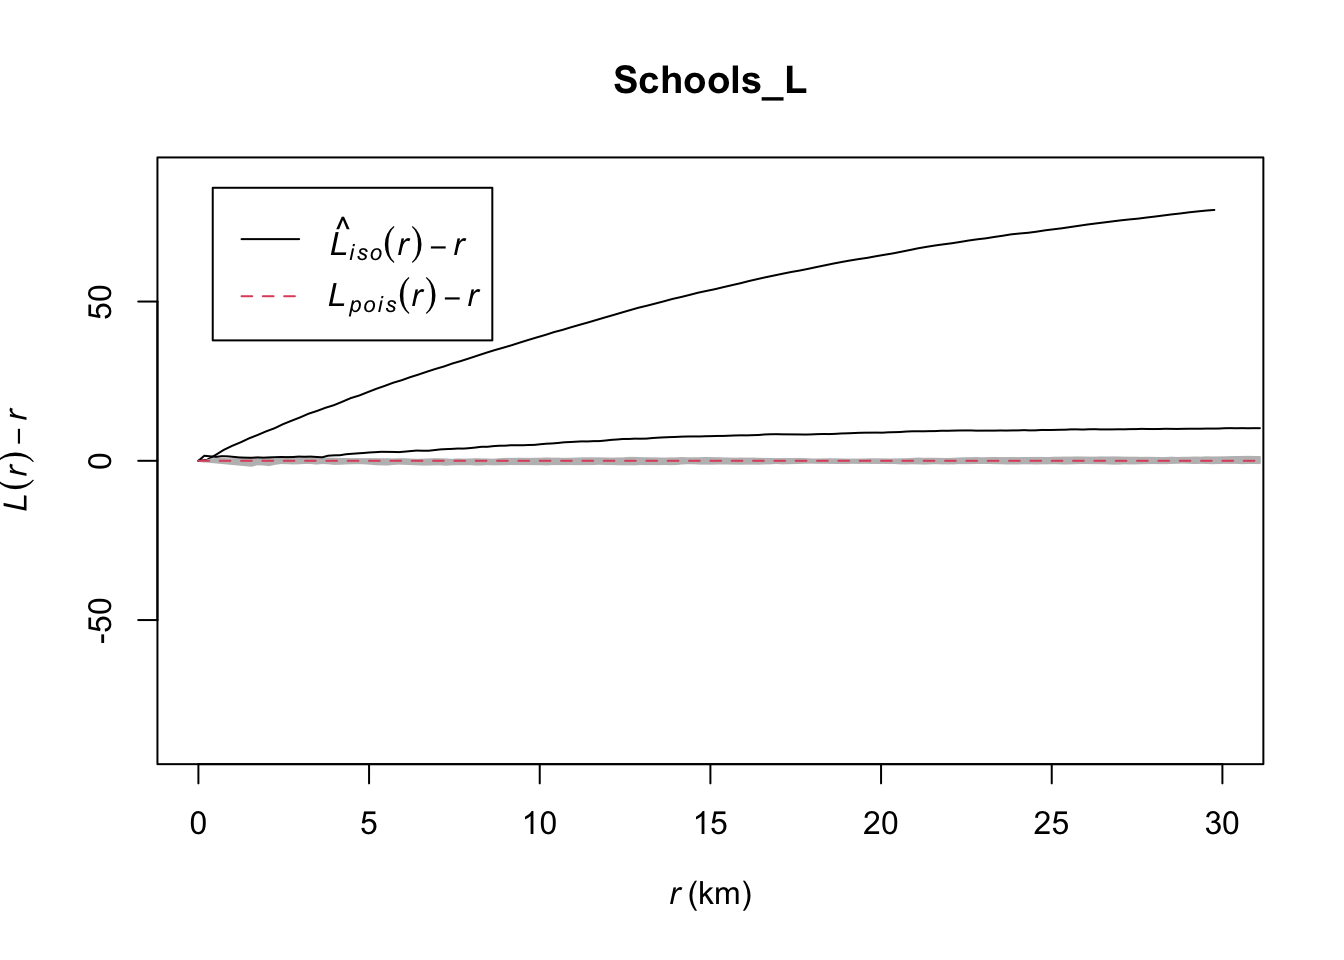
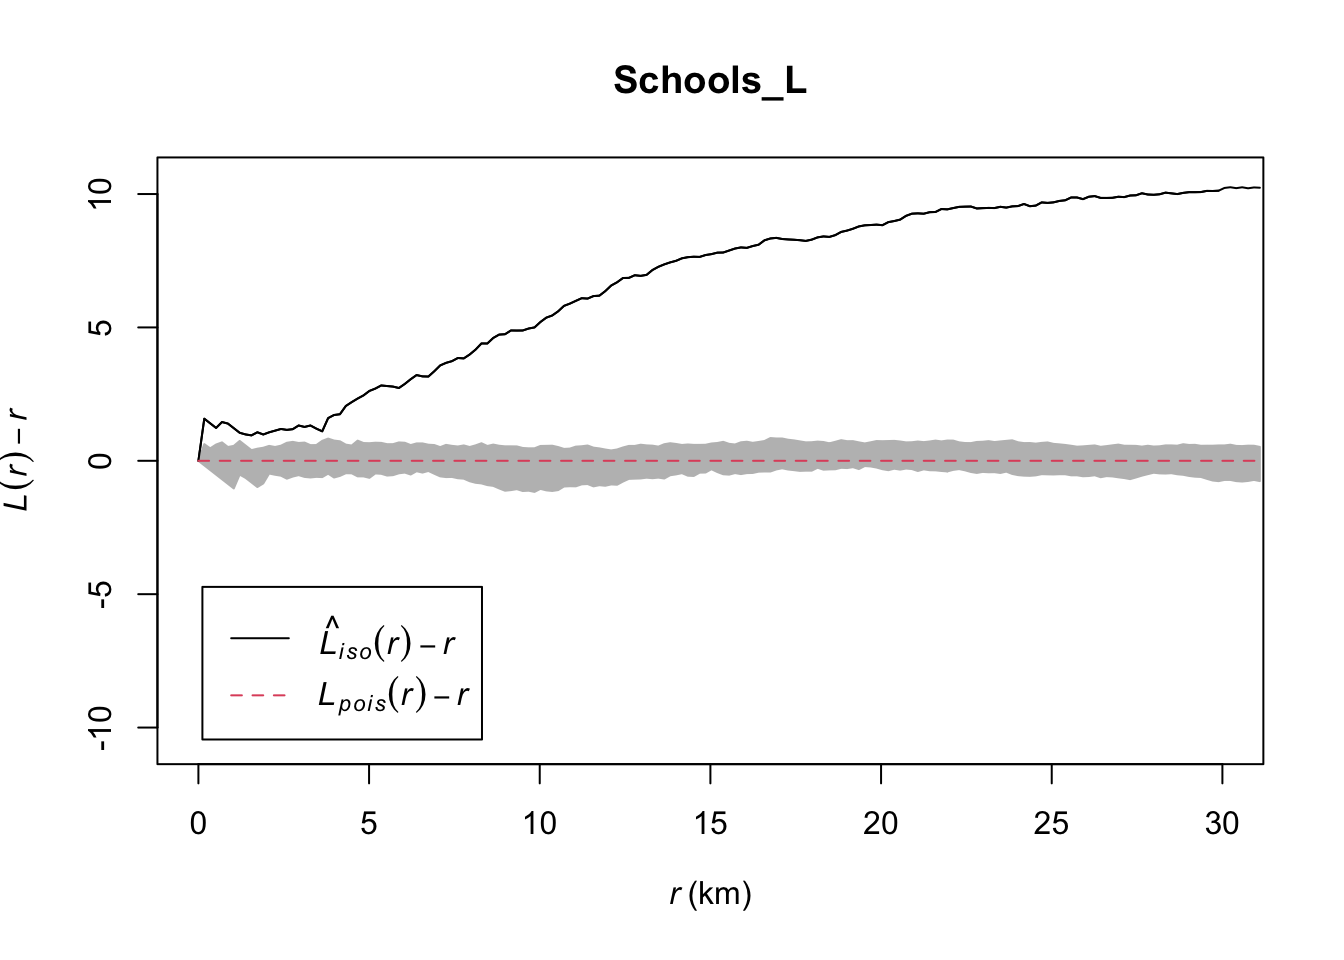
push

diff --git a/docs/pg_364Lab6_PointPattern.html b/docs/pg_364Lab6_PointPattern.html
@@ -1227,7 +1227,7 @@ report and explain that.</p></li>
 </ul></li>
 </ul>
 <pre class="r"><code># Calculate the L function. 
-Schools_L &lt;- Lest(McDonalds.ppp,correction = &quot;Ripley&quot;)
+Schools_L &lt;- Lest(SchoolWest.ppp,correction = &quot;Ripley&quot;)
 
 # Create an ensemble (collection) of simulated point patterns 
 # that is based on our data data, 
